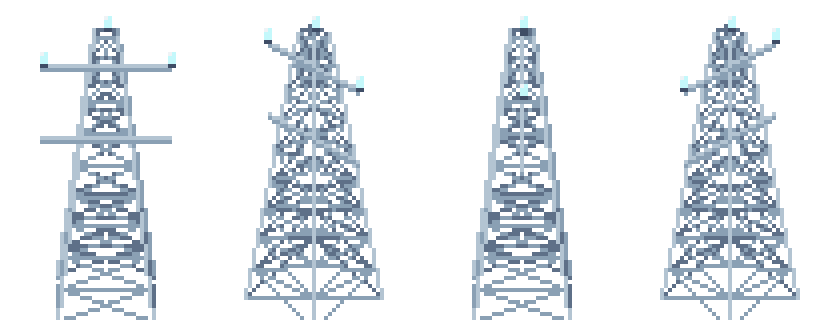
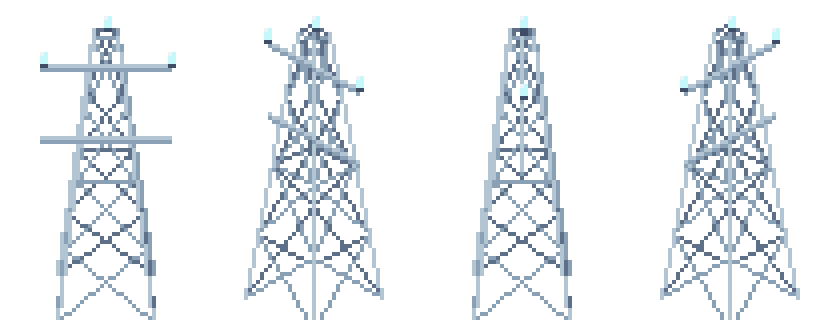
Pixel : poteaux moyen et grand allégés (moins de croisillons, ombres simplifiées)

diff --git a/pixel/pillow/poles.py b/pixel/pillow/poles.py
@@ -25,10 +25,10 @@ BLUE = (P["blue_out"], P["blue_dark"], P["blue"], P["blue_light"])
 SPECS = {
     "small-electric-pole": dict(size=(24, 52), tile=1, kind="wood", H=42, base=1.4, top=1.4, trunk=1.6,
                                 arms=[(40, 6.5)], tip=(0, 43), ramp=WOOD, braces=0, canvas_pad=6),
-    "medium-electric-pole": dict(size=(30, 64), tile=1, kind="lattice", H=52, base=5.0, top=1.6,
-                                 arms=[(46, 7.0), (36, 5.0)], tip=(0, 53), ramp=RUST, braces=7),
+    "medium-electric-pole": dict(size=(30, 64), tile=1, kind="lattice", H=52, base=6.0, top=1.6,
+                                 arms=[(46, 7.0)], tip=(0, 53), ramp=RUST, braces=3),
     "big-electric-pole": dict(size=(52, 80), tile=2, kind="lattice", H=66, base=12.0, top=2.6,
-                              arms=[(58, 16.0), (40, 16.0)], tip=(0, 67), ramp=STEEL, braces=9),
+                              arms=[(58, 16.0), (40, 16.0)], tip=(0, 67), ramp=STEEL, braces=4),
     "substation": dict(size=(46, 76), tile=2, kind="substation", H=60, base=10.0, top=2.2,
                        arms=[(54, 12.0)], tip=(0, 61), ramp=STEEL, braces=5, box=(12, 22)),
 }
@@ -106,7 +106,8 @@ def render(name, k):
                 a0 = P3(f[0][0] * w0, f[0][1] * w0, z0)[0]; a1 = P3(f[0][0] * w1, f[0][1] * w1, z1)[0]
                 c0 = P3(f[1][0] * w0, f[1][1] * w0, z0)[0]; c1 = P3(f[1][0] * w1, f[1][1] * w1, z1)[0]
                 line(d, a0, c1, col); line(d, c0, a1, col)          # croisillons en X
-                line(d, a1, c1, col)                                  # traverse
+                if i % 2 == 1:
+                    line(d, a1, c1, col)                              # traverse, un niveau sur deux
             # montants de la face
             for (sx_, sy_) in f:
                 line(d, P3(sx_ * b, sy_ * b, 0)[0], P3(sx_ * t, sy_ * t, h)[0], light if fi >= 2 else mid)
@@ -157,7 +158,7 @@ def render(name, k):
             for sy_ in (-1, 1):
                 line(sd, S3(sx_ * b, sy_ * b, 0), S3(sx_ * t, sy_ * t, h), (0, 0, 0, 255))
         n = spec["braces"]
-        for i in range(n + 1):
+        for i in (0, n // 2, n):
             z = i * h / n
             w = b + (t - b) * z / h
             pts = [S3(sx_ * w, sy_ * w, z) for sx_, sy_ in ((-1, -1), (1, -1), (1, 1), (-1, 1), (-1, -1))]
